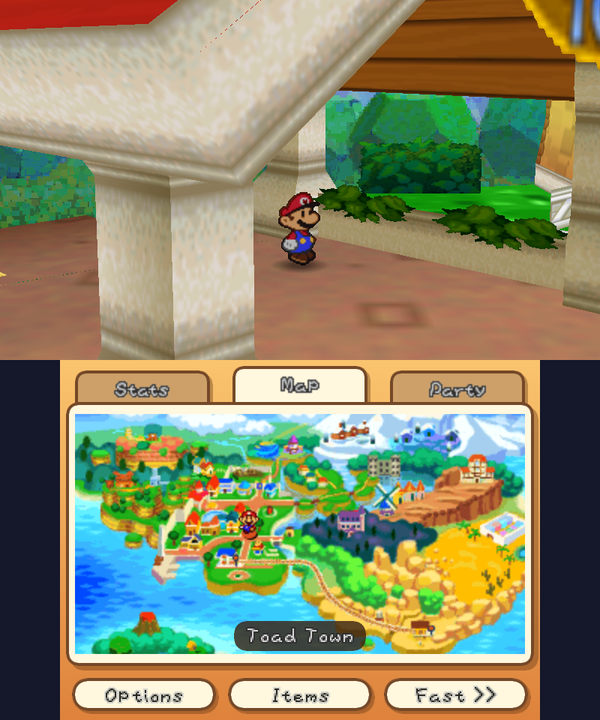
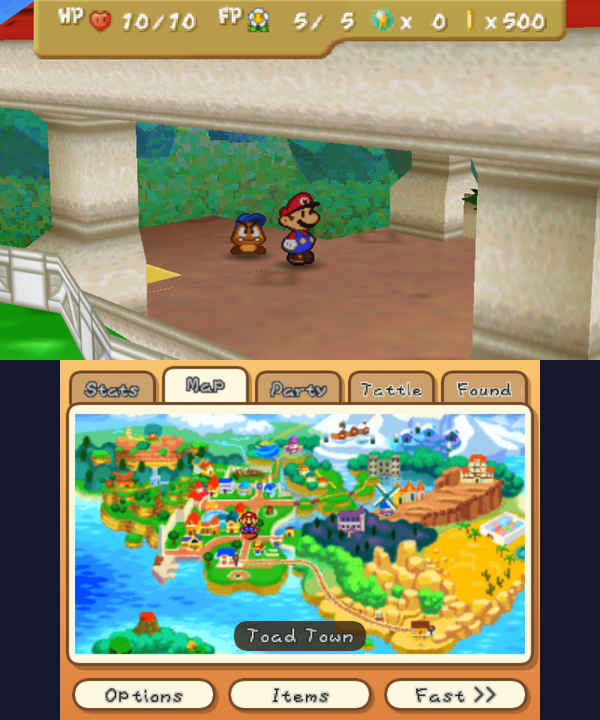
README: Tattle and Found tabs and quick save in the features, new screenshots (five-tab bar, Update check in Options)

diff --git a/README.md b/README.md
@@ -31,8 +31,13 @@ Full instructions: [the player readme](port/3ds/RELEASE_README.md).
 - 60 fps (in-between frames are added), or the original 30
 - Fast-forward and faster text
 - Original, Fill or Wide screen, the 3D slider with a depth setting, remappable buttons
-- A touch bottom screen: stats, world map, party, items, the battle menus as buttons, a tattle
-  log, a collectibles tracker and quick save
+- A touch bottom screen with tabs:
+  - **Stats**, with a quick-save button
+  - **Map**: the world map, showing where you are
+  - **Party**: tap a partner to switch to them
+  - **Tattle**: every enemy Goombario has tattled so far; tap one to read the whole tattle
+  - **Found**: star pieces, badges, hidden blocks and panels and item spots collected in each area
+  - plus Items, and the battle menus as buttons in battle
 - A randomizer, chosen when you start a new file, with a seed you can share
 - 60 fps on the New 3DS family; about 30 fps on the original 3DS and 2DS, with a few extras
   off there (CIA only)
@@ -43,6 +48,8 @@ Full instructions: [the player readme](port/3ds/RELEASE_README.md).
 |:---:|:---:|:---:|
 | <img src="port/3ds/docs/screenshots/map.png" width="260"> | <img src="port/3ds/docs/screenshots/party.png" width="260"> | <img src="port/3ds/docs/screenshots/options.png" width="260"> |
 | World map | Party: tap a partner to switch | Options |
+| <img src="port/3ds/docs/screenshots/tattle.png" width="260"> | <img src="port/3ds/docs/screenshots/tattle-text.png" width="260"> | <img src="port/3ds/docs/screenshots/found.png" width="260"> |
+| Tattle log | Tap an enemy to read its tattle | Found: what you collected in each area |
 | <img src="port/3ds/docs/screenshots/new-game.png" width="260"> | <img src="port/3ds/docs/screenshots/randomizer.png" width="260"> | |
 | New file: Classic or Randomizer | What the randomizer shuffles | |
 
